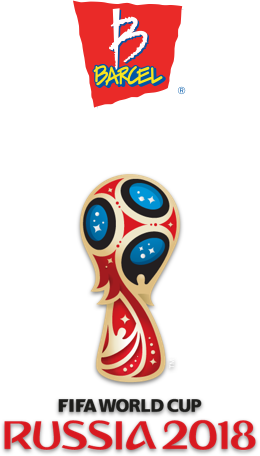
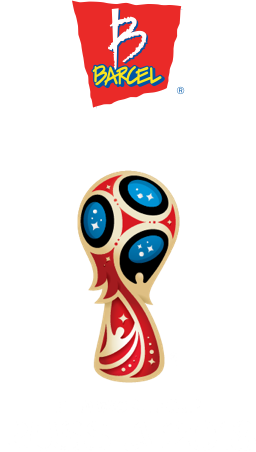
Desing Login and Registration pages

Changed region(s): [[0.0, 0.3717, 1.0, 1.0], [0.3125, 0.0, 0.7188, 0.2478], [0.6875, 0.1858, 0.7188, 0.2168]]

diff --git a/src/pages/signup/signup.html b/src/pages/signup/signup.html
@@ -8,30 +8,35 @@
 
 
 <ion-content>
+  <ion-grid>
+    <ion-row style="margin-top: 5vh;">
+      <ion-col></ion-col>
+      <ion-col><img src="assets/img/barcelLogo.png" alt=""></ion-col>
+      <ion-col></ion-col>
+    </ion-row>
+  </ion-grid>
+
   <form (submit)="doSignup()">
     <ion-list>
 
-      <ion-item>
-        <ion-label fixed>{{ 'NAME' | translate }}</ion-label>
-        <ion-input type="text" [(ngModel)]="account.name" name="name"></ion-input>
+      <ion-item style="border: none">
+        <ion-label floating>{{ 'NAME' | translate }}</ion-label>
+        <ion-input type="text" [(ngModel)]="account.name" placeholder="" name="name"></ion-input>
       </ion-item>
 
       <ion-item>
-        <ion-label fixed>{{ 'EMAIL' | translate }}</ion-label>
-        <ion-input type="email" [(ngModel)]="account.email" name="email"></ion-input>
+        <ion-label floating>{{ 'EMAIL' | translate }}</ion-label>
+        <ion-input type="email" [(ngModel)]="account.email" placeholder="" name="email"></ion-input>
       </ion-item>
 
-      <!--
-      Want to add a Username? Here you go:
 
       <ion-item>
-        <ion-label floating>Username</ion-label>
-        <ion-input type="text" [(ngModel)]="account.username" name="username"></ion-input>
+        <ion-label floating>{{ 'CODE' | translate }}</ion-label>
+        <ion-input type="text" [(ngModel)]="account.code" name="username"></ion-input>
       </ion-item>
-      -->
 
       <ion-item>
-        <ion-label fixed>{{ 'PASSWORD' | translate }}</ion-label>
+        <ion-label floating>{{ 'PASSWORD' | translate }}</ion-label>
         <ion-input type="password" [(ngModel)]="account.password" name="password"></ion-input>
       </ion-item>
 

diff --git a/src/pages/welcome/welcome.scss b/src/pages/welcome/welcome.scss
@@ -1,7 +1,7 @@
 page-welcome {
   .splash-bg {
     position: relative;
-    background: url('../assets/img/splashbg.png') no-repeat transparent;
+    background: url('../assets/img/animatedHeader.png') no-repeat transparent;
     background-size: cover;
     height: 45%;
     z-index: 1;
@@ -22,16 +22,18 @@ page-welcome {
   }
   .splash-logo {
     margin: auto;
-    background: url('../assets/img/appicon.png') repeat transparent;
+    background: url('../assets/img/rusiaLogo.png') repeat transparent;
     background-size: 100%;
     width: 128px;
     height: 128px;
   }
   .splash-intro {
+    margin-top: 10px;
     font-size: 18px;
     font-weight: bold;
     max-width: 80%;
-    margin: auto;
+    margin-left: auto;
+    margin-right: auto;
   }
   button.login {
     margin-top: 25px;
@@ -42,5 +44,8 @@ page-welcome {
     &.activated {
       background-color: rgb(220, 220, 220);
     }
+  }
+  button {
+    letter-spacing: .1rem;
   }
 }

diff --git a/src/pages/login/login.html b/src/pages/login/login.html
@@ -11,8 +11,8 @@
   <form (submit)="doLogin()">
     <ion-list>
 
-      <ion-item>
-        <ion-label fixed>{{ 'EMAIL' | translate }}</ion-label>
+      <ion-item style="border: none">
+        <ion-label floating>{{ 'EMAIL' | translate }}</ion-label>
         <ion-input type="email" [(ngModel)]="account.email" name="email"></ion-input>
       </ion-item>
 
@@ -26,7 +26,7 @@
       -->
 
       <ion-item>
-        <ion-label fixed>{{ 'PASSWORD' | translate }}</ion-label>
+        <ion-label floating>{{ 'PASSWORD' | translate }}</ion-label>
         <ion-input type="password" [(ngModel)]="account.password" name="password"></ion-input>
       </ion-item>
 

diff --git a/src/pages/signup/signup.ts b/src/pages/signup/signup.ts
@@ -14,10 +14,11 @@ export class SignupPage {
   // The account fields for the login form.
   // If you're using the username field with or without email, make
   // sure to add it to the type
-  account: { name: string, email: string, password: string } = {
-    name: 'Test Human',
-    email: 'test@example.com',
-    password: 'test'
+  account: { name: string, email: string, code: string, password: string } = {
+    name: '',
+    email: '',
+    code: '',
+    password: ''
   };
 
   // Our translated text strings

diff --git a/src/pages/signup/signup.scss b/src/pages/signup/signup.scss
@@ -1,3 +1,25 @@
 page-signup {
-
+  .toolbar-background {
+    background: none;
+    border-color: transparent;
+  }
+  .toolbar-title{
+    color: white;
+  }
+  .content{
+    background: url("/assets/img/loginBack.png") no-repeat center;
+    background-size: cover;
+  }
+  .item {
+    padding-top: 2vh;
+    background: none;
+    color: white;
+  }
+  .ion-title{
+    color: white;
+  }
+  form{
+    margin-top: 5vh;
+  }
 }
+

diff --git a/src/pages/login/login.scss b/src/pages/login/login.scss
@@ -1,2 +1,24 @@
 page-login {
+  .toolbar-background {
+    background: none;
+    border-color: transparent;
+  }
+  .toolbar-title{
+    color: white;
+  }
+  .content{
+    background: url("/assets/img/loginBack.png") no-repeat center;
+    background-size: cover;
+  }
+  .item {
+    padding-top: 2vh;
+    background: none;
+    color: white;
+  }
+  .ion-title{
+    color: white;
+  }
+  form{
+    margin-top: 55vh;
+  }
 }

diff --git a/src/pages/login/login.ts b/src/pages/login/login.ts
@@ -15,8 +15,8 @@ export class LoginPage {
   // If you're using the username field with or without email, make
   // sure to add it to the type
   account: { email: string, password: string } = {
-    email: 'test@example.com',
-    password: 'test'
+    email: '',
+    password: ''
   };
 
   // Our translated text strings
